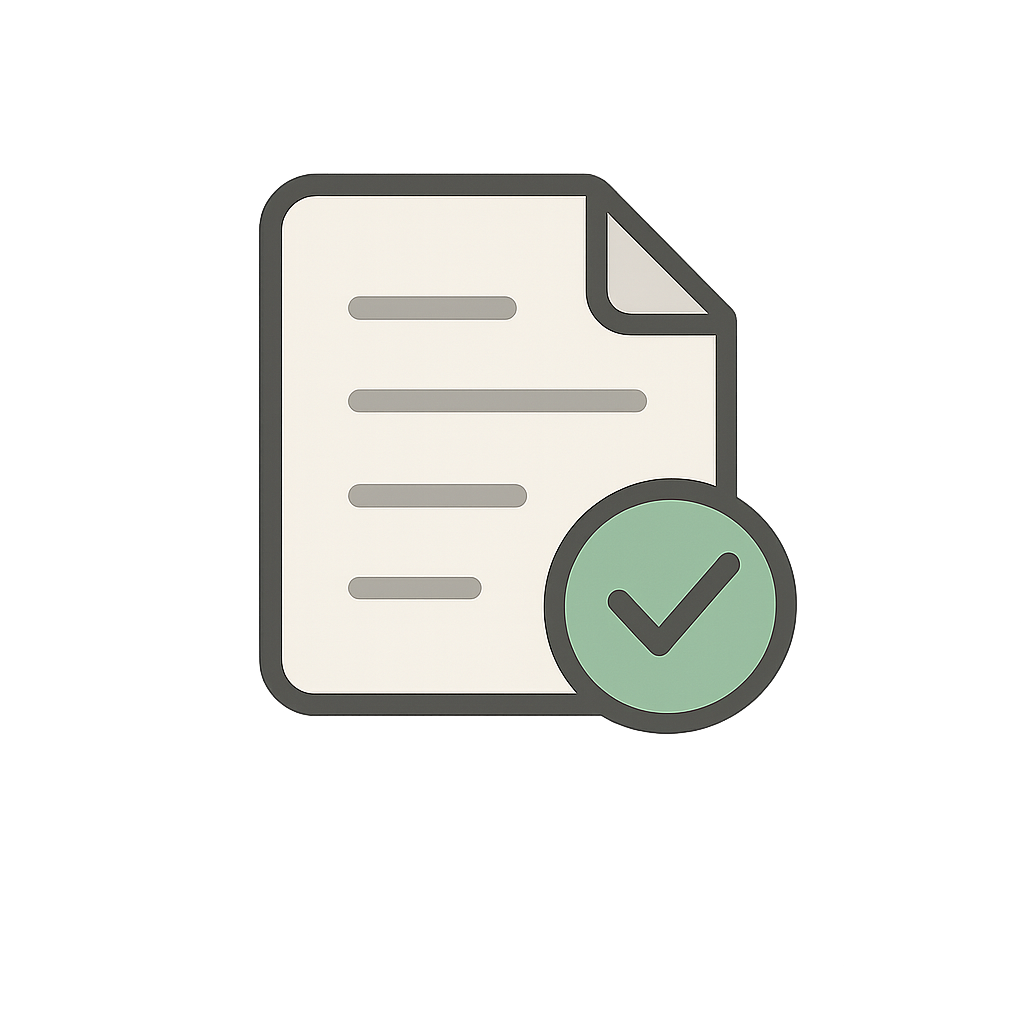
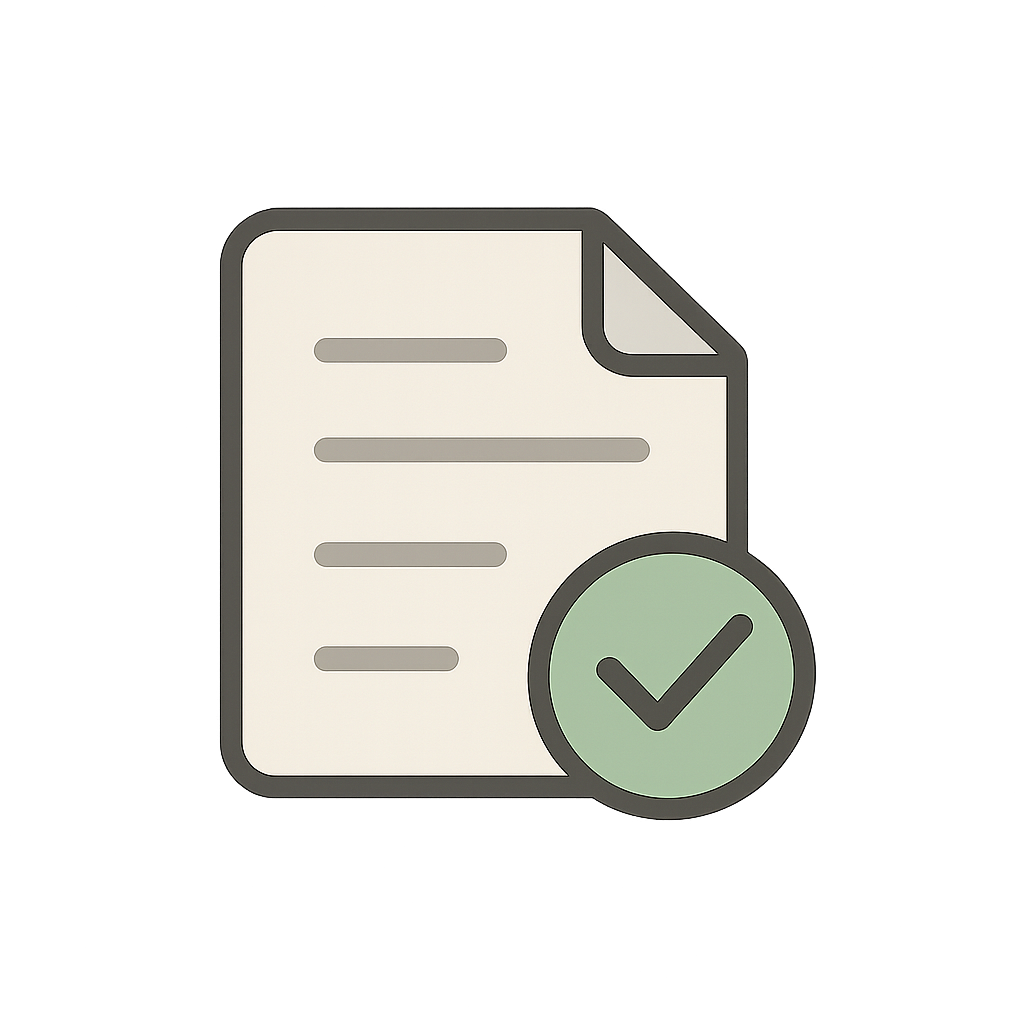
[S13P11A509-131]<feat>배지 초기 모달 구현 - 배지 클릭 시 모달 뜨게 만들었습니다.

Changed region(s): [[0.1875, 0.1562, 0.8125, 0.8125], [0.3125, 0.5312, 0.5, 0.5938]]

diff --git a/frontend/src/components/layout/mypage/MypageTabs.tsx b/frontend/src/components/layout/mypage/MypageTabs.tsx
@@ -48,29 +48,32 @@ import badgeAI from '@/assets/images/AI.png';
 import badgeDB from '@/assets/images/DB.png';
 import badgeAWS from '@/assets/images/AWS.png';
 
+// 배지 모달
+import BadgeModal from '@/components/layout/mypage/BadgeModal';
+
 // 배지 리스트
 const badgeList = [
-  { id: 1, name: '이건 머지?', image: badgeFirstArticle },
-  { id: 2, name: '얘는 머지?', image: badgeFirstComment },
-  { id: 3, name: '헬로 월드', image: badgeHelloWorld },
-  { id: 4, name: '별이 5개', image: badgeStar5 },
-  { id: 5, name: '별이 13개', image: badgeStar13 },
-  { id: 6, name: '별이 42개', image: badgeStar42 },
-  { id: 7, name: '날선몰', image: badgeAmumu },
-  { id: 8, name: 'FC TMI', image: badgeFCTMI },
-  { id: 9, name: '인기 폭발', image: badgeFollow },
-  { id: 10, name: '추천 10개', image: badgelike10 },
-  { id: 11, name: '추천 100개', image: badgelike100 },
-  { id: 12, name: '천근추', image: badgelike1000 },
-  { id: 13, name: '웅성', image: badgeView50 },
-  { id: 14, name: '웅성웅성', image: badgeView100 },
-  { id: 15, name: '웅성웅성웅성', image: badgeView1000 },
-  { id: 16, name: '벌레잡는 파리채', image: badgeParis },
-  { id: 18, name: 'Spring', image: badgeSpring },
-  { id: 19, name: 'React', image: badgeReact },
-  { id: 20, name: 'AI', image: badgeAI},
-  { id: 21, name: 'DB', image: badgeDB },
-  { id: 22, name: 'AWS', image: badgeAWS },
+  { id: 1, name: '이건 머지?', image: badgeFirstArticle, filename: 'first_article.png'},
+  { id: 2, name: '얘는 머지?', image: badgeFirstComment, filename: 'first_comment.png'},
+  { id: 3, name: '헬로 월드', image: badgeHelloWorld, filename: 'helloworld.png'},
+  { id: 4, name: '별이 5개', image: badgeStar5, filename: 'star_5.png'},
+  { id: 5, name: '별이 13개', image: badgeStar13, filename: 'star_13.png'},
+  { id: 6, name: '별이 42개', image: badgeStar42, filename: 'star_42.png'},
+  { id: 7, name: '날선몰', image: badgeAmumu, filename: 'amumu.png'},
+  { id: 8, name: 'FC TMI', image: badgeFCTMI, filename: 'fctmi.png'},
+  { id: 9, name: '인기 폭발', image: badgeFollow, filename: 'followmany.png'},
+  { id: 10, name: '추천 10개', image: badgelike10, filename: 'like_10.png'},
+  { id: 11, name: '추천 100개', image: badgelike100, filename: 'like_100.png'},
+  { id: 12, name: '천근추', image: badgelike1000, filename: 'like_1000.png'},
+  { id: 13, name: '웅성', image: badgeView50, filename: 'view_50.png'},
+  { id: 14, name: '웅성웅성', image: badgeView100, filename: 'view_100.png'},
+  { id: 15, name: '웅성웅성웅성', image: badgeView1000, filename: 'view_1000.png'},
+  { id: 16, name: '벌레잡는 파리채', image: badgeParis, filename: 'paris.png'},
+  { id: 18, name: 'Spring', image: badgeSpring, filename: 'spring.png'},
+  { id: 19, name: 'React', image: badgeReact, filename: 'react.png'},
+  { id: 20, name: 'AI', image: badgeAI, filename: 'ai.png'},
+  { id: 21, name: 'DB', image: badgeDB, filename: 'db.png'},
+  { id: 22, name: 'AWS', image: badgeAWS, filename: 'aws.png'},
 
 ];
 
@@ -112,6 +115,10 @@ const MyPageTabs: React.FC<MyPageTabsProps> = ({
 
   // 팔로우 탭의 서브 탭 상태 ('company' or 'user')
   const [followSubTab, setFollowSubTab] = useState<'company' | 'user'>('company');
+  
+  // 배지 모달 상태
+  const [isBadgeModalOpen, setIsBadgeModalOpen] = useState(false);
+  const [selectedBadge, setSelectedBadge] = useState<typeof badgeList[0] | null>(null);
 
   // 댓글 데이터 로딩
   const { data: comments } = useFetchJson<CommentCardProps>('/mypage_comments.json');
@@ -242,7 +249,14 @@ const MyPageTabs: React.FC<MyPageTabsProps> = ({
           <h2 className="text-lg font-semibold mb-6">업적</h2>
           <div className="grid grid-cols-7 gap-4">
             {badgeList.map((badge) => (
-              <div key={badge.id} className="aspect-square bg-white border border-gray-200 rounded-xl shadow-sm flex flex-col items-center justify-center hover:shadow-md transition">
+              <div
+                key={badge.id}
+                onClick={() => {
+                  setSelectedBadge(badge);
+                  setIsBadgeModalOpen(true);
+                }}
+                className="aspect-square bg-white border border-gray-200 rounded-xl shadow-sm flex flex-col items-center justify-center hover:shadow-md transition"
+              >
                 <img src={badge.image} alt={badge.name} className="w-25 h-25 mb-2 rounded-lg object-cover" />
                 <p className="text-xl font-bold text-gray-700 text-center">{badge.name}</p>
               </div>
@@ -393,6 +407,13 @@ const MyPageTabs: React.FC<MyPageTabsProps> = ({
           )}
         </TabsContent>
       )}
+
+      {/* 배지 모달 */}
+      <BadgeModal
+        isOpen={isBadgeModalOpen}
+        badge={selectedBadge}
+        onClose={() => setIsBadgeModalOpen(false)}
+      />
     </Tabs>
   );
 };

diff --git a/frontend/src/components/layout/mypage/BadgeModal.tsx b/frontend/src/components/layout/mypage/BadgeModal.tsx
@@ -1,0 +1,66 @@
+import React from 'react';
+
+interface BadgeModalProps {
+  isOpen: boolean;
+  badge: {
+    id: number;
+    name: string;
+    image: string;
+    filename: string;
+  } | null;
+  onClose: () => void;
+}
+
+const BadgeModal: React.FC<BadgeModalProps> = ({ isOpen, badge, onClose }) => {
+  if (!isOpen || !badge) return null;
+
+  return (
+    <div className="fixed inset-0 bg-black bg-opacity-50 flex items-center justify-center z-50">
+      <div className="bg-white p-8 rounded-lg shadow-lg w-[600px] h-[500px] max-w-[90%] flex flex-col">
+        {/* 제목 (왼쪽 상단) */}
+        <h2 className="text-3xl font-bold mb-4 text-left">{badge.name}</h2>
+
+        {/* 가운데 배치되는 컨텐츠 */}
+        <div className="flex flex-col flex-1 items-center">
+          {/* 배지 이미지 */}
+          <img
+            src={badge.image}
+            alt={badge.name}
+            className="w-60 h-60 mb-2 object-contain"
+          />
+
+          {/* 설명 */}
+          <p className="text-center text-lg text-gray-600 mb-3">
+            배지 설명 들어갈 부분입니다.
+          </p>
+
+          {/* 획득 날짜 */}
+          <div className="px-4 py-1 bg-green-100 text-green-700 text-sm rounded-full flex items-center gap-2">
+            2025년 8월 5일 획득
+          </div>
+
+          {/* 배지 */}
+          <div className="flex w-full gap-2 mt-4">
+            {/* 대표 배지로 설정 버튼 */}
+            <button
+              onClick={() => console.log("대표 배지로 설정")}
+              className="flex-1 h-12 bg-prime-btn text-white text-lg rounded hover:bg-prime-btn-hover"
+            >
+              대표 배지로 설정
+            </button>
+
+            {/* 닫기 버튼 */}
+            <button
+              onClick={onClose}
+              className="flex-1 h-12 border border-gray-300 text-gray-700 text-lg rounded hover:bg-gray-100"
+            >
+              닫기
+            </button>
+          </div>
+        </div>
+      </div>
+    </div>
+  );
+};
+
+export default BadgeModal;
